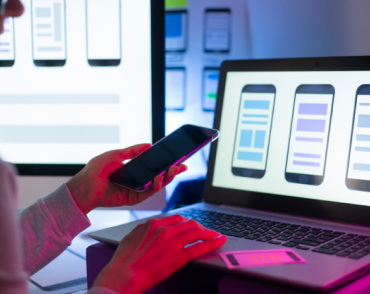
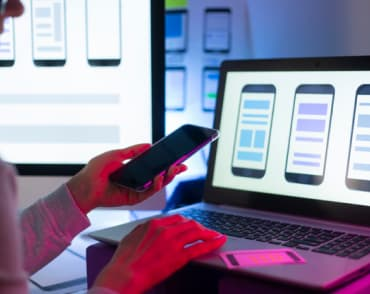
добавляет bg-image в hero
+ правки в hero
+ оптимизация изображений our-work

diff --git a/portfolio.html b/portfolio.html
@@ -22,10 +22,10 @@
                 <a class="logo link" href="" lang="en">Web<span class="suplogo">Studio</span></a>
                 <ul class="navigation-list list">
                     <li class="navigation-item">
-                        <a class="navigation-link link active-link" href="">Студия</a>
+                        <a class="navigation-link link" href="./index.html">Студия</a>
                     </li>
                     <li class="navigation-item">
-                        <a class="navigation-link link" href="./portfolio.html">Портфолио</a>
+                        <a class="navigation-link link active-link" href="">Портфолио</a>
                     </li>
                     <li class="navigation-item">
                         <a class="navigation-link link" href="">Контакты</a>
@@ -218,7 +218,6 @@
                 </div>
             </div>
         </div>
-    </footer>
     </footer>
 </body>
 

diff --git a/index.html b/index.html
@@ -46,9 +46,11 @@
     <main>
         <!--Hero-->
         <section class="hero">
-            <div class="container"></div>
-                <h1 class="hero-title">Эффективные решения<br>для вашего бизнеса</h1>
-                <button class="modal-button" type="button">Заказать услугу</button>
+            <div class="hero-wrapper">
+                <div class="container">
+                    <h1 class="hero-title">Эффективные решения<br>для вашего бизнеса</h1>
+                    <button class="modal-button" type="button">Заказать услугу</button>
+                </div>
             </div>
         </section>
         

diff --git a/css/styles.css b/css/styles.css
@@ -186,10 +186,22 @@ img {
 
 /* ========== HERO ========== */
 .hero {
+  text-align: center;
+  background-color: #c4c4c4;
+}
+
+.hero-wrapper {
+  max-width: 1600px;
   padding-top: 200px;
   padding-bottom: 200px;
-  text-align: center;
-  background-color: #2f303a;
+  margin: 0 auto;
+  background-image: linear-gradient(
+      rgba(47, 48, 58, 0.4),
+      rgba(47, 48, 58, 0.4)
+    ),
+    url("../images/hero/hero-bg.jpg");
+  background-repeat: no-repeat;
+  background-size: cover;
 }
 
 .hero-title {
